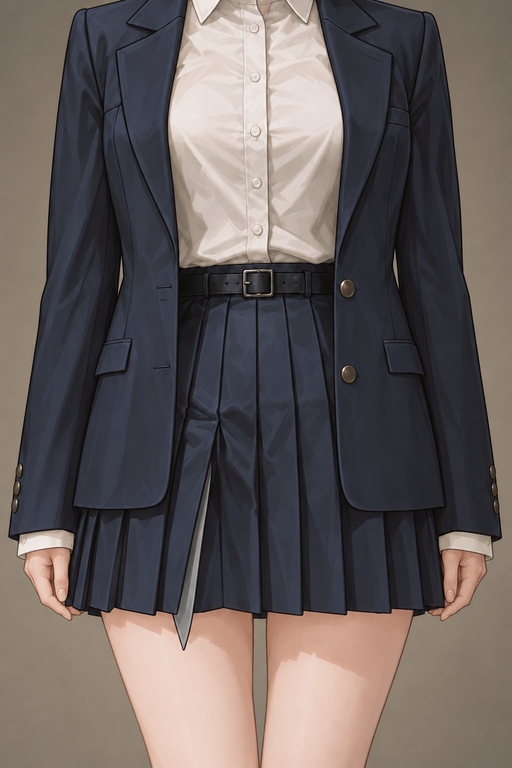
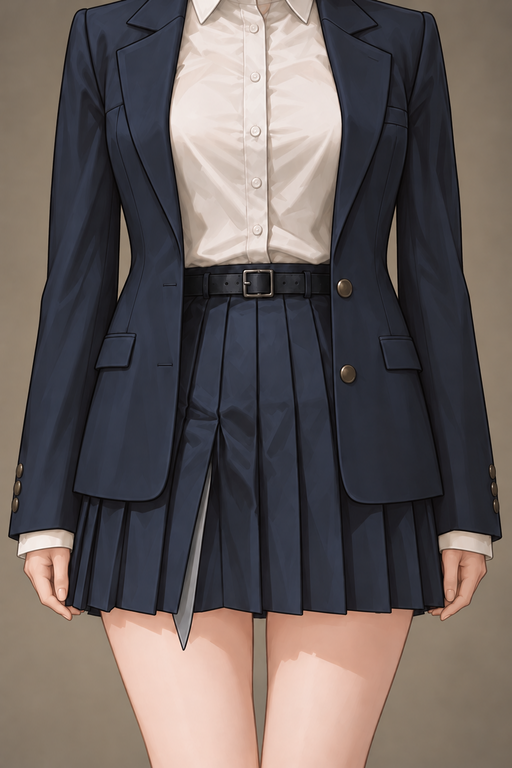
调整正面西装腰部版型：适度收腰，保留自然胸腰胯过渡与完整双手

diff --git a/wardrobe-samples-illustrated/方向锚点/README.md b/wardrobe-samples-illustrated/方向锚点/README.md
@@ -6,7 +6,7 @@
 
 | 类别 | 规格 | 方向 | 状态 |
 | --- | --- | --- | --- |
-| 上装·通用版 | 胸围标准 | [纯正面](上装/通用版/胸围标准/正面.png) | 已重做：沿用原套装款式，暗色腰带扣、自然衬衫褶皱、完整双手，512×768 |
+| 上装·通用版 | 胸围标准 | [纯正面](上装/通用版/胸围标准/正面.png) | 已调整：适度收腰，保留自然胸腰胯过渡与完整双手；512×768 |
 | 上装·通用版 | 胸围标准 | [纯背面](上装/通用版/胸围标准/背面.png) | 已重做：正后方、后中缝居中、完整双手、同套衣服与统一构图，512×768 |
 
 其他区域及发型／胸围规格的方向参考尚未生成。原先背侧视图仅供画风参考，不作为正背面方向锚点。

diff --git a/wardrobe-samples-illustrated/制作规范.md b/wardrobe-samples-illustrated/制作规范.md
@@ -33,3 +33,7 @@
 ## 正背面结构与双手
 
 方向参考不能只保持视角，还必须匹配原套装的领型、衬衫宽松度、纽扣大小颜色、腰带扣与裙腰。上装参考保留完整双手自然垂在袖口下方；正背面统一从肩部开始至完整手指下方，禁止空袖口、缺手或截断手掌。近景交付 512×768。
+
+## 女性形体与西装腰线（最新修正）
+
+保持同一女性的自然胸、腰、胯关系与穿着松量。正面西装适度收腰；背面放松过度内收的腰线，不做束腰式挤压。正背面必须表达同一实际版型，肩宽、腰线高度、腰围与胯部转折应相符。此调整为服装剪裁修正，不改变人物原有身体尺寸。
